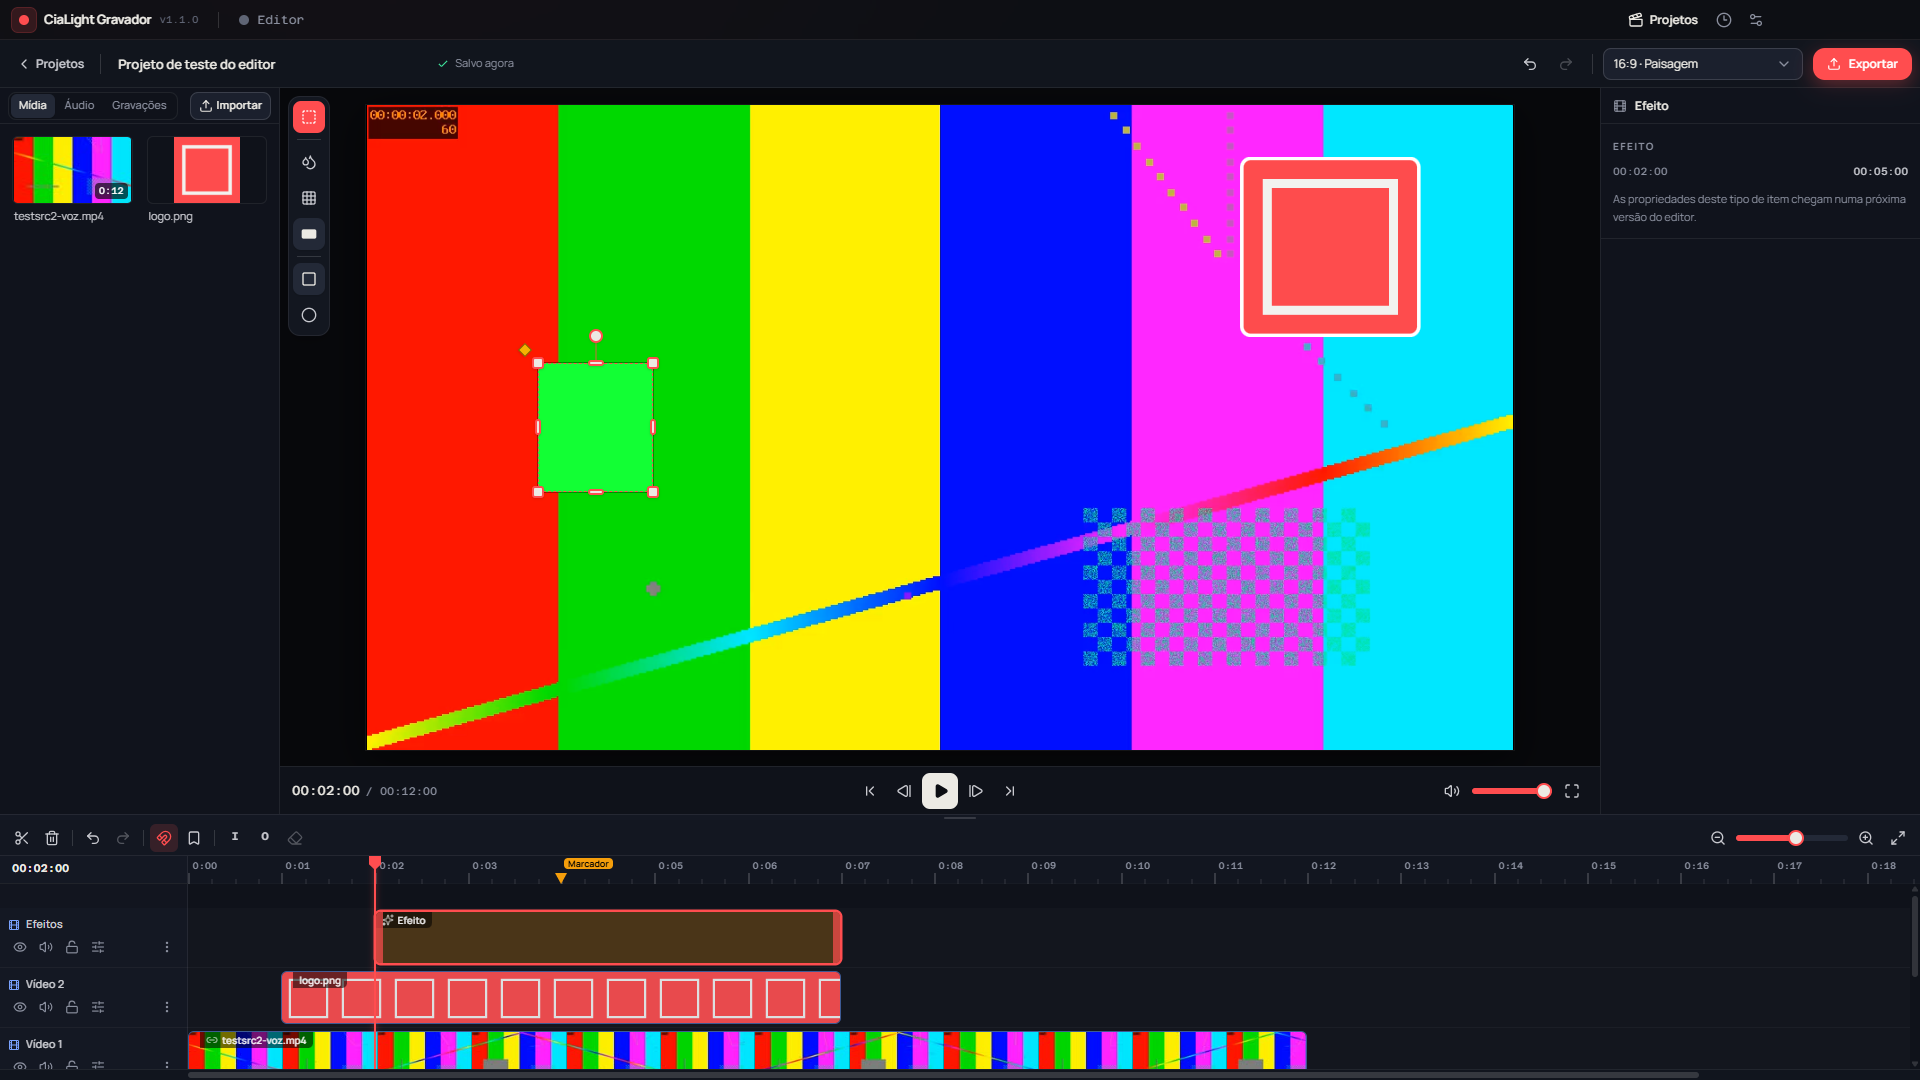
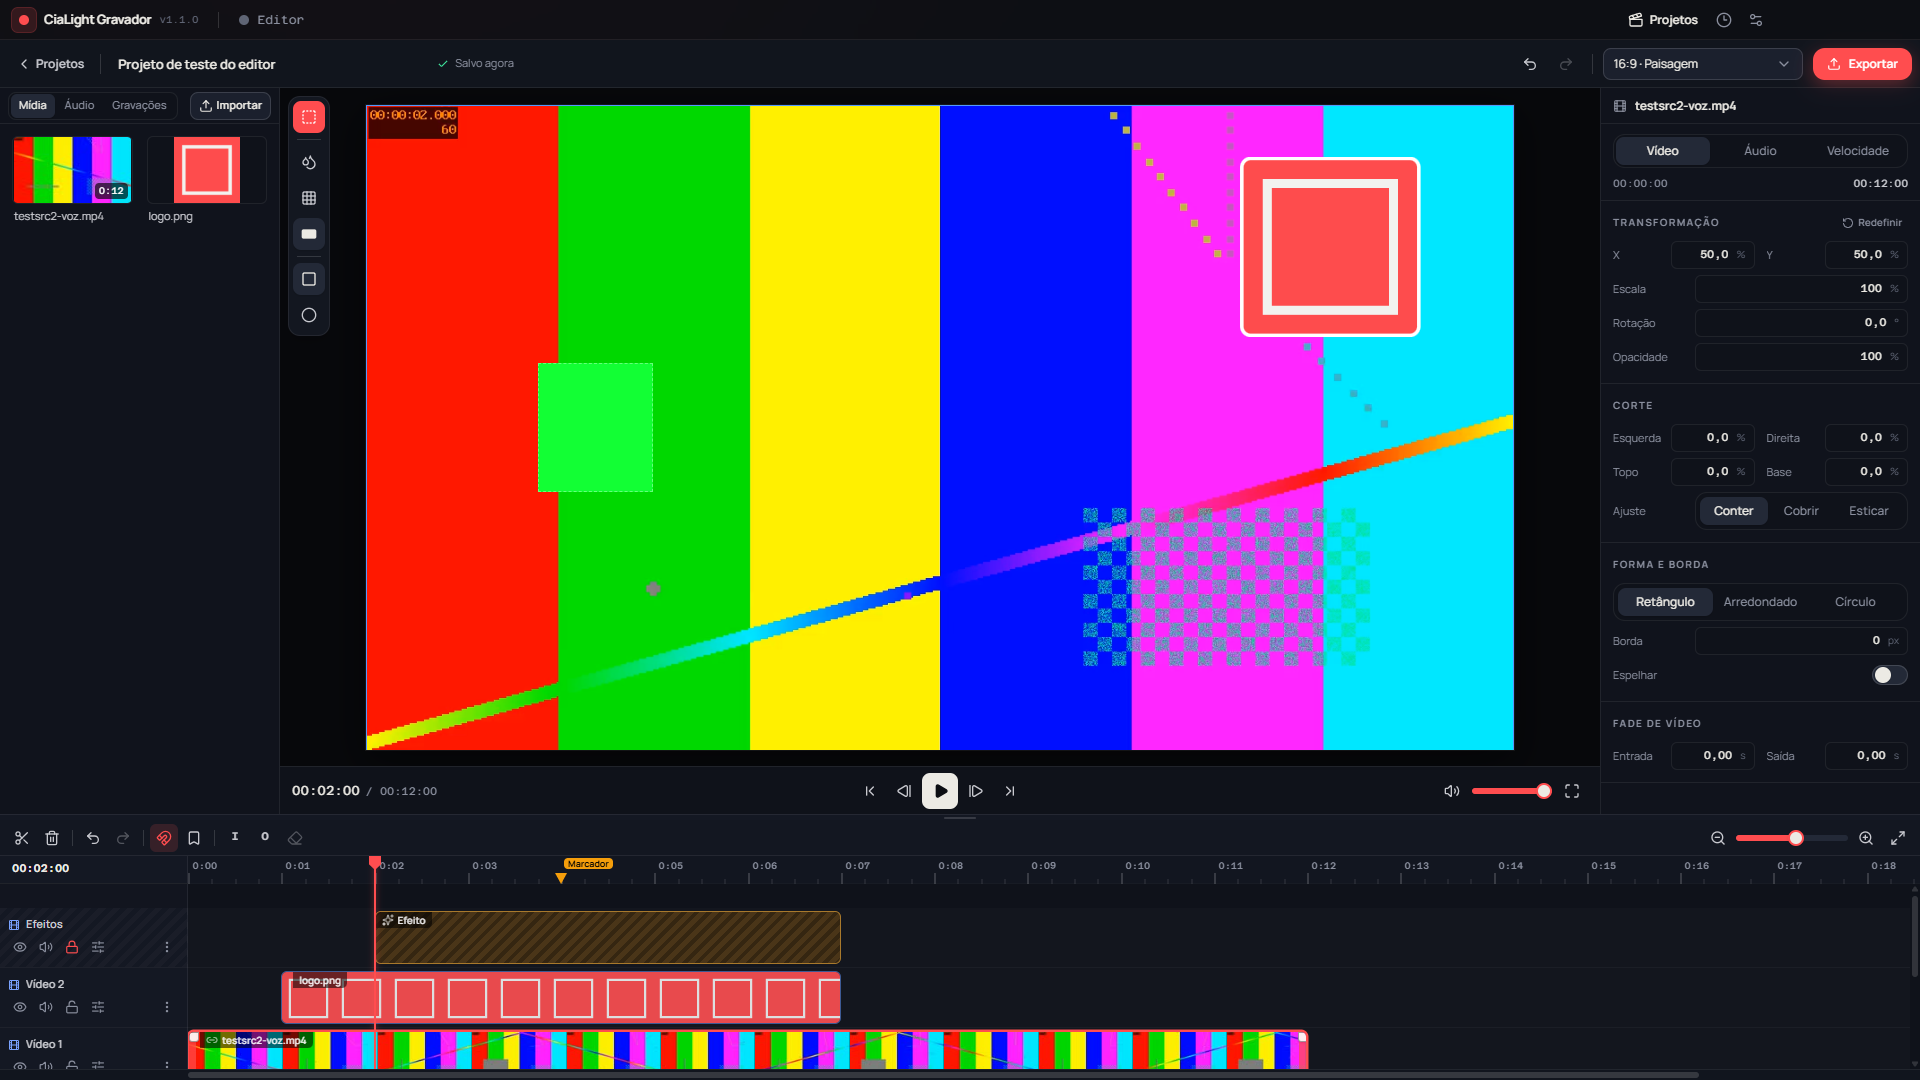
fix(editor): regiões clicáveis sob mídia selecionada; mínimo no snap; bloqueado/desativado
- Corpo das alças da mídia não recebe cliques: o fundo testa as regiões primeiro e
  só então move a mídia sob o ponteiro (cantos e rotação continuam clicáveis).
- snapResize respeita o mínimo de 1 % do quadro (o mesmo de resizeRegion).
- Regiões de faixas bloqueadas ficam fora do hit-test.
- Efeito desativado/em faixa oculta selecionado: contorno cinza tracejado, etiqueta
  "Desativado", sem alças.
- QA: eventos despachados em document.elementFromPoint; checks de vídeo selecionado
  x região, desativado e faixa bloqueada.

diff --git a/src/renderer/src/editor/ui/viewer/EffectRegionHandles.tsx b/src/renderer/src/editor/ui/viewer/EffectRegionHandles.tsx
@@ -27,8 +27,11 @@ function resizeCursor(h: RegionHandle, rotation: number): string {
   return RESIZE_CURSORS[Math.round(a / 45) % 4]
 }
 
-/** Efeito selecionado com a região no playhead (null se não é efeito ou o playhead está fora do item). */
-export function selectedRegion(p: Project, itemId: string, tUs: Us): { box: RegionBox; locked: boolean; keyed: boolean } | null {
+/**
+ * Efeito selecionado com a região no playhead (null se não é efeito ou o playhead está fora do item).
+ * inactive: desativado ou em faixa oculta (não aparece no quadro) — só contorno cinza, sem alças.
+ */
+export function selectedRegion(p: Project, itemId: string, tUs: Us): { box: RegionBox; locked: boolean; inactive: boolean; keyed: boolean } | null {
   const f = findItem(p, itemId)
   if (!f || f.item.type !== 'effect') return null
   const local = tUs - f.item.startUs
@@ -36,6 +39,7 @@ export function selectedRegion(p: Project, itemId: string, tUs: Us): { box: Regi
   return {
     box: regionBoxOf(f.item, local, p.canvas.width, p.canvas.height),
     locked: f.track.locked,
+    inactive: f.item.enabled === false || f.track.hidden,
     keyed: keyframeAt(f.item, local, frameDurUs(p.canvas.fps) / 2)
   }
 }
@@ -44,7 +48,7 @@ export function startRegionGesture(e: React.PointerEvent, itemId: string, g: Reg
   const st = useEditorStore.getState()
   const p = st.project
   const f = p && findItem(p, itemId)
-  if (!p || !f || f.item.type !== 'effect' || f.track.locked) return
+  if (!p || !f || f.item.type !== 'effect' || f.track.locked || f.item.enabled === false || f.track.hidden) return
   const tUs = st.playheadUs
   const local = tUs - f.item.startUs
   if (local < 0 || local >= f.item.durationUs) return
@@ -128,11 +132,23 @@ export function RegionOutline({ box, k }: { box: RegionBox; k: number }): React.
   return <div data-region-outline={box.itemId} className={cn('pointer-events-none absolute border border-dashed border-white/35', box.shape === 'ellipse' && 'rounded-[50%]')} style={boxStyle(box, k)} />
 }
 
-export function EffectRegionHandles({ box, k, locked, keyed, drawing, onGesture }: { box: RegionBox; k: number; locked: boolean; keyed: boolean; drawing: boolean; onGesture: (e: React.PointerEvent, g: RegionGesture) => void }): React.JSX.Element {
+/** Efeito selecionado que não aparece no quadro (desativado/faixa oculta): contorno cinza, etiqueta, sem alças. */
+function InactiveRegion({ box, k }: { box: RegionBox; k: number }): React.JSX.Element {
+  return (
+    <div data-region-inactive={box.itemId} className="pointer-events-none absolute" style={boxStyle(box, k)}>
+      <div className={cn('absolute inset-0 border-[1.5px] border-dashed border-muted', box.shape === 'ellipse' && 'rounded-[50%]')} />
+      <span className="absolute left-0 top-0 -translate-y-[calc(100%+4px)] whitespace-nowrap rounded bg-surface-3/90 px-1.5 py-0.5 text-[10px] font-medium text-fg-2 shadow">Desativado</span>
+    </div>
+  )
+}
+
+export function EffectRegionHandles({ box, k, locked, inactive, keyed, drawing, onGesture }: { box: RegionBox; k: number; locked: boolean; inactive: boolean; keyed: boolean; drawing: boolean; onGesture: (e: React.PointerEvent, g: RegionGesture) => void }): React.JSX.Element {
+  if (inactive) return <InactiveRegion box={box} k={k} />
   const wPx = box.w * k
   const hPx = box.h * k
   const inside = box.cy * k - hPx / 2 < 24
   const handles = locked ? [] : HANDLES.filter((h) => (h === 'n' || h === 's' ? wPx >= 36 : h === 'e' || h === 'w' ? hPx >= 36 : true))
+  // desenhando: o interior deixa o arraste passar para criar outra região; as alças continuam ativas
   return (
     <div
       data-region-handles={box.itemId}

diff --git a/src/renderer/src/editor/ui/viewerGeometry.ts b/src/renderer/src/editor/ui/viewerGeometry.ts
@@ -101,6 +101,8 @@ export function rotateAngle(center: Pt, from: Pt, to: Pt, start: number, step15:
 /** Região de efeito em pixels do canvas do projeto (centro, tamanho, rotação horária em graus). */
 export interface RegionBox extends ItemBox {
   shape: 'rect' | 'ellipse'
+  /** Faixa bloqueada: aparece, mas não é selecionável pelo visualizador. */
+  locked?: boolean
 }
 
 /** Menor lado da região: 1 % do quadro. */
@@ -113,7 +115,7 @@ export function effectBoxes(p: Project, tUs: Us): RegionBox[] {
     if (t.kind !== 'video' || t.hidden) continue
     const it = t.items.find((i) => tUs >= i.startUs && tUs < i.startUs + i.durationUs)
     if (!it || it.type !== 'effect' || it.enabled === false) continue
-    out.push(regionBoxOf(it, tUs - it.startUs, p.canvas.width, p.canvas.height))
+    out.push({ ...regionBoxOf(it, tUs - it.startUs, p.canvas.width, p.canvas.height), ...(t.locked ? { locked: true } : {}) })
   }
   return out
 }
@@ -141,9 +143,9 @@ export function regionHit(b: RegionBox, x: number, y: number, slackPx = 0): bool
   return Math.abs(l.x) <= hw && Math.abs(l.y) <= hh
 }
 
-/** Região mais ao topo sob (x, y); null se nenhuma. */
+/** Região mais ao topo sob (x, y), ignorando as de faixas bloqueadas; null se nenhuma. */
 export function hitTestRegions(boxes: RegionBox[], x: number, y: number, slackPx = 0): string | null {
-  for (let i = boxes.length - 1; i >= 0; i--) if (regionHit(boxes[i], x, y, slackPx)) return boxes[i].itemId
+  for (let i = boxes.length - 1; i >= 0; i--) if (!boxes[i].locked && regionHit(boxes[i], x, y, slackPx)) return boxes[i].itemId
   return null
 }
 
@@ -236,6 +238,7 @@ export function snapRegion(r: { x: number; y: number; w: number; h: number; rota
 /**
  * Depois de redimensionar (pixels; sem Shift): sem rotação, a(s) borda(s) arrastada(s) grudam nas
  * bordas/centro do quadro (±1 %). Sem Alt o lado oposto continua parado; com Alt a outra borda espelha.
+ * Lados continuam ≥ MIN_REGION do quadro (o mesmo mínimo de resizeRegion).
  */
 export function snapResize<B extends ItemBox>(b: B, handle: RegionHandle, fromCenter: boolean, W: number, H: number): { box: B; guides: Guides } {
   const guides: Guides = { v: [], h: [] }
@@ -248,9 +251,10 @@ export function snapResize<B extends ItemBox>(b: B, handle: RegionHandle, fromCe
     const hit = bestSnap([{ v: (c + (s * size) / 2) / full, lines: GUIDE_LINES }])
     if (!hit) return { c, size, guide: null }
     const e = hit.line * full
-    if (fromCenter) return { c, size: Math.max(1, 2 * Math.abs(e - c)), guide: hit.line }
+    const min = MIN_REGION * full
+    if (fromCenter) return { c, size: Math.max(min, 2 * Math.abs(e - c)), guide: hit.line }
     const anchor = c - (s * size) / 2
-    const n = Math.max(1, s * (e - anchor))
+    const n = Math.max(min, s * (e - anchor))
     return { c: anchor + (s * n) / 2, size: n, guide: hit.line }
   }
   const x = axis(hx * flip, b.cx, b.w, W)

diff --git a/src/renderer/src/editor/ui/viewerGeometry.test.ts b/src/renderer/src/editor/ui/viewerGeometry.test.ts
@@ -1,6 +1,6 @@
 import { describe, expect, it } from 'vitest'
 import { createEmptyProject, createMediaItem } from '@shared/editor/factory'
-import { addAsset, addEffect, insertItems, setAnimValue, setItemEnabled, toggleKeyframe } from '@shared/editor/ops'
+import { addAsset, addEffect, insertItems, setAnimValue, setItemEnabled, toggleKeyframe, updateTrack } from '@shared/editor/ops'
 import type { Asset, EffectItem, Project } from '@shared/editor/project'
 import { cornerScale, dragToRegion, effectBoxes, hitTest, hitTestRegions, itemBoxes, keyframeAt, regionHit, resizeRegion, rotateAngle, snapCenter, snapRegion, snapResize, writeRegion, type RegionBox } from './viewerGeometry'
 
@@ -86,6 +86,8 @@ describe('viewerGeometry — regiões de efeito', () => {
     expect(at1[1]).toMatchObject({ shape: 'ellipse', rotation: 30 })
     expect(effectBoxes(p, 5_000_000)).toEqual([])
     expect(effectBoxes(setItemEnabled(p, [b.itemId], false), 1_000_000).map((x) => x.itemId)).toEqual([a.itemId])
+    const fxTrack = p.tracks.find((t) => t.items.some((i) => i.id === b.itemId))!
+    expect(effectBoxes(updateTrack(p, fxTrack.id, { locked: true }), 1_000_000)[1]).toMatchObject({ itemId: b.itemId, locked: true })
   })
 
   it('regionHit: retângulo e elipse rotacionados', () => {
@@ -101,6 +103,8 @@ describe('viewerGeometry — regiões de efeito', () => {
     expect(regionHit(box(), 960 + 205, 540, 6)).toBe(true)
     expect(hitTestRegions([box({ itemId: 'a' }), box({ itemId: 'b', cx: 1000 })], 1000, 540)).toBe('b')
     expect(hitTestRegions([box()], 10, 10)).toBeNull()
+    // faixa bloqueada: não é selecionável; a de baixo (desbloqueada) é
+    expect(hitTestRegions([box({ itemId: 'a' }), box({ itemId: 'b', locked: true })], 960, 540)).toBe('a')
   })
 
   it('dragToRegion: canto a canto, Alt a partir do centro, Shift = elipse, mínimo de 1 % do quadro', () => {
@@ -162,6 +166,12 @@ describe('viewerGeometry — regiões de efeito', () => {
     expect(s.guides).toEqual({ v: [1], h: [] })
     const c = snapResize({ itemId: 'x', cx: 960, cy: 540, w: 1900, h: 200, rotation: 0 }, 'w', true, W, H) // Alt: espelha
     expect(c.box).toMatchObject({ cx: 960, w: 1920 })
+    // borda arrastada até perto do centro (0,5) com a outra também lá: prende no mínimo de 1 % do quadro
+    const tiny = snapResize({ itemId: 'x', cx: 955, cy: 540, w: 10, h: 200, rotation: 0 }, 'e', false, W, H) // direita em 960 → 960, esquerda em 950
+    expect(tiny.box.w).toBeCloseTo(19.2)
+    expect(tiny.box.cx - tiny.box.w / 2).toBeCloseTo(950)
+    const tinyAlt = snapResize({ itemId: 'x', cx: 958, cy: 540, w: 8, h: 200, rotation: 0 }, 'e', true, W, H) // Alt: 2·|960−958| = 4 → 19,2
+    expect(tinyAlt.box.w).toBeCloseTo(19.2)
     const rot = snapResize({ itemId: 'x', cx: 1000, cy: 540, w: 1820, h: 200, rotation: 10 }, 'e', false, W, H)
     expect(rot.box.w).toBe(1820)
   })

diff --git a/src/renderer/src/editor/ui/viewer/ItemTransformHandles.tsx b/src/renderer/src/editor/ui/viewer/ItemTransformHandles.tsx
@@ -85,22 +85,22 @@ export function startItemTransform(e: React.PointerEvent, box: ItemBox, g: ItemG
 }
 
 /** Alças do item selecionado. A de rotação fica acima da caixa, ou por dentro se a borda de cima estiver rente ao palco. */
+// O corpo não recebe cliques (pointer-events-none): o clique no interior vai para o fundo do
+// visualizador, que testa as regiões de efeito primeiro e só então move a mídia sob o ponteiro.
 export function ItemTransformHandles({ box, k, onGesture }: { box: ItemBox; k: number; onGesture: (e: React.PointerEvent, box: ItemBox, g: ItemGesture) => void }): React.JSX.Element {
   const inside = box.cy * k - (box.h * k) / 2 < 24
   return (
     <div
-      className="absolute cursor-move"
+      data-media-handles={box.itemId}
+      className="pointer-events-none absolute"
       style={{ left: box.cx * k - (box.w * k) / 2, top: box.cy * k - (box.h * k) / 2, width: box.w * k, height: box.h * k, transform: `rotate(${box.rotation}deg)` }}
-      onPointerDown={(e) => {
-        if (e.button === 0 && !e.ctrlKey && !e.shiftKey) onGesture(e, box, { kind: 'move' })
-      }}
     >
       <div className={cn('pointer-events-none absolute left-1/2 top-0 h-5 w-px -translate-x-1/2 bg-accent/80', !inside && '-translate-y-full')} />
       <button
         type="button"
         aria-label="Girar (Shift: passos de 15°)"
         title="Girar (Shift: passos de 15°)"
-        className={cn('absolute left-1/2 top-0 h-3.5 w-3.5 -translate-x-1/2 cursor-grab rounded-full border-2 border-accent bg-fg shadow', inside ? 'translate-y-5' : '-translate-y-[calc(100%+20px)]')}
+        className={cn('pointer-events-auto absolute left-1/2 top-0 h-3.5 w-3.5 -translate-x-1/2 cursor-grab rounded-full border-2 border-accent bg-fg shadow', inside ? 'translate-y-5' : '-translate-y-[calc(100%+20px)]')}
         onPointerDown={(e) => onGesture(e, box, { kind: 'rotate' })}
       />
       {CORNERS.map((c) => (
@@ -109,7 +109,7 @@ export function ItemTransformHandles({ box, k, onGesture }: { box: ItemBox; k: n
           type="button"
           aria-label="Redimensionar (Shift: a partir do centro)"
           title="Redimensionar (Shift: a partir do centro)"
-          className="absolute h-3 w-3 rounded-[3px] border-2 border-accent bg-fg shadow"
+          className="pointer-events-auto absolute h-3 w-3 rounded-[3px] border-2 border-accent bg-fg shadow"
           style={{
             cursor: CORNER_CURSOR[c],
             left: c.endsWith('l') ? -6 : undefined,

diff --git a/src/renderer/src/editor/ui/ViewerOverlay.tsx b/src/renderer/src/editor/ui/ViewerOverlay.tsx
@@ -90,7 +90,7 @@ export function ViewerOverlay({ width, height, scale, onPause }: { width: number
       ))}
       {selectedMedia ? <ItemTransformHandles box={selectedMedia} k={scale} onGesture={(e, box, g) => startItemTransform(e, box, g, ctx)} /> : null}
       {selectedFx && !playing ? (
-        <EffectRegionHandles box={selectedFx.box} k={scale} locked={selectedFx.locked} keyed={selectedFx.keyed} drawing={drawing} onGesture={(e, g) => startRegionGesture(e, selectedFx.box.itemId, g, ctx)} />
+        <EffectRegionHandles box={selectedFx.box} k={scale} locked={selectedFx.locked} inactive={selectedFx.inactive} keyed={selectedFx.keyed} drawing={drawing} onGesture={(e, g) => startRegionGesture(e, selectedFx.box.itemId, g, ctx)} />
       ) : null}
     </div>
   )
